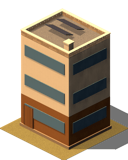
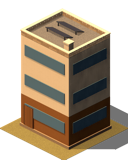
fix(isokit): rest the modern solar panels on the deck and on legs

Changed region(s): [[0.3438, 0.0938, 0.6562, 0.25]]

diff --git a/Tools/IsoKit/Sources/IsoKitCore/Recipes/AgeParts.swift b/Tools/IsoKit/Sources/IsoKitCore/Recipes/AgeParts.swift
@@ -109,13 +109,22 @@ extension Builder {
         hipRoof(RoofSpec(lo: SCNVector3(lo.x, hi.y, lo.z), hi: hi, pitchDegrees: 22, overhang: 0.3, finish: .tile))
     }
 
-    /// Two rows of tilted solar panels on a flat roof.
+    /// Two rows of solar panels on a flat roof, the low edge on the deck and the high edge on legs.
     func solarPanels(_ box: AgeBox) {
+        let tilt: CGFloat = 0.4, rise = 0.5 * sin(tilt)
         for row in 0 ..< 2 {
+            let depth = box.lo.z + 1.4 + CGFloat(row) * 1.4, centre = box.top + 0.04 + rise
             add(
                 SCNBox(width: 2.6, height: 0.06, length: 1.0, chamferRadius: 0), Finish.paint(AgePalette.solar).material(),
-                at: SCNVector3(box.lo.x + 2.4, box.top + 0.5, box.lo.z + 1.4 + CGFloat(row) * 1.4), euler: SCNVector3(-0.4, 0, 0)
+                at: SCNVector3(box.lo.x + 2.4, centre, depth), euler: SCNVector3(-tilt, 0, 0)
             )
+            for along in [box.lo.x + 1.3, box.lo.x + 3.5] {
+                block(
+                    SCNVector3(along - 0.04, box.top, depth + 0.38),
+                    SCNVector3(along + 0.04, centre + rise * 0.8, depth + 0.44),
+                    .paint(Trade.iron)
+                )
+            }
         }
     }
 
